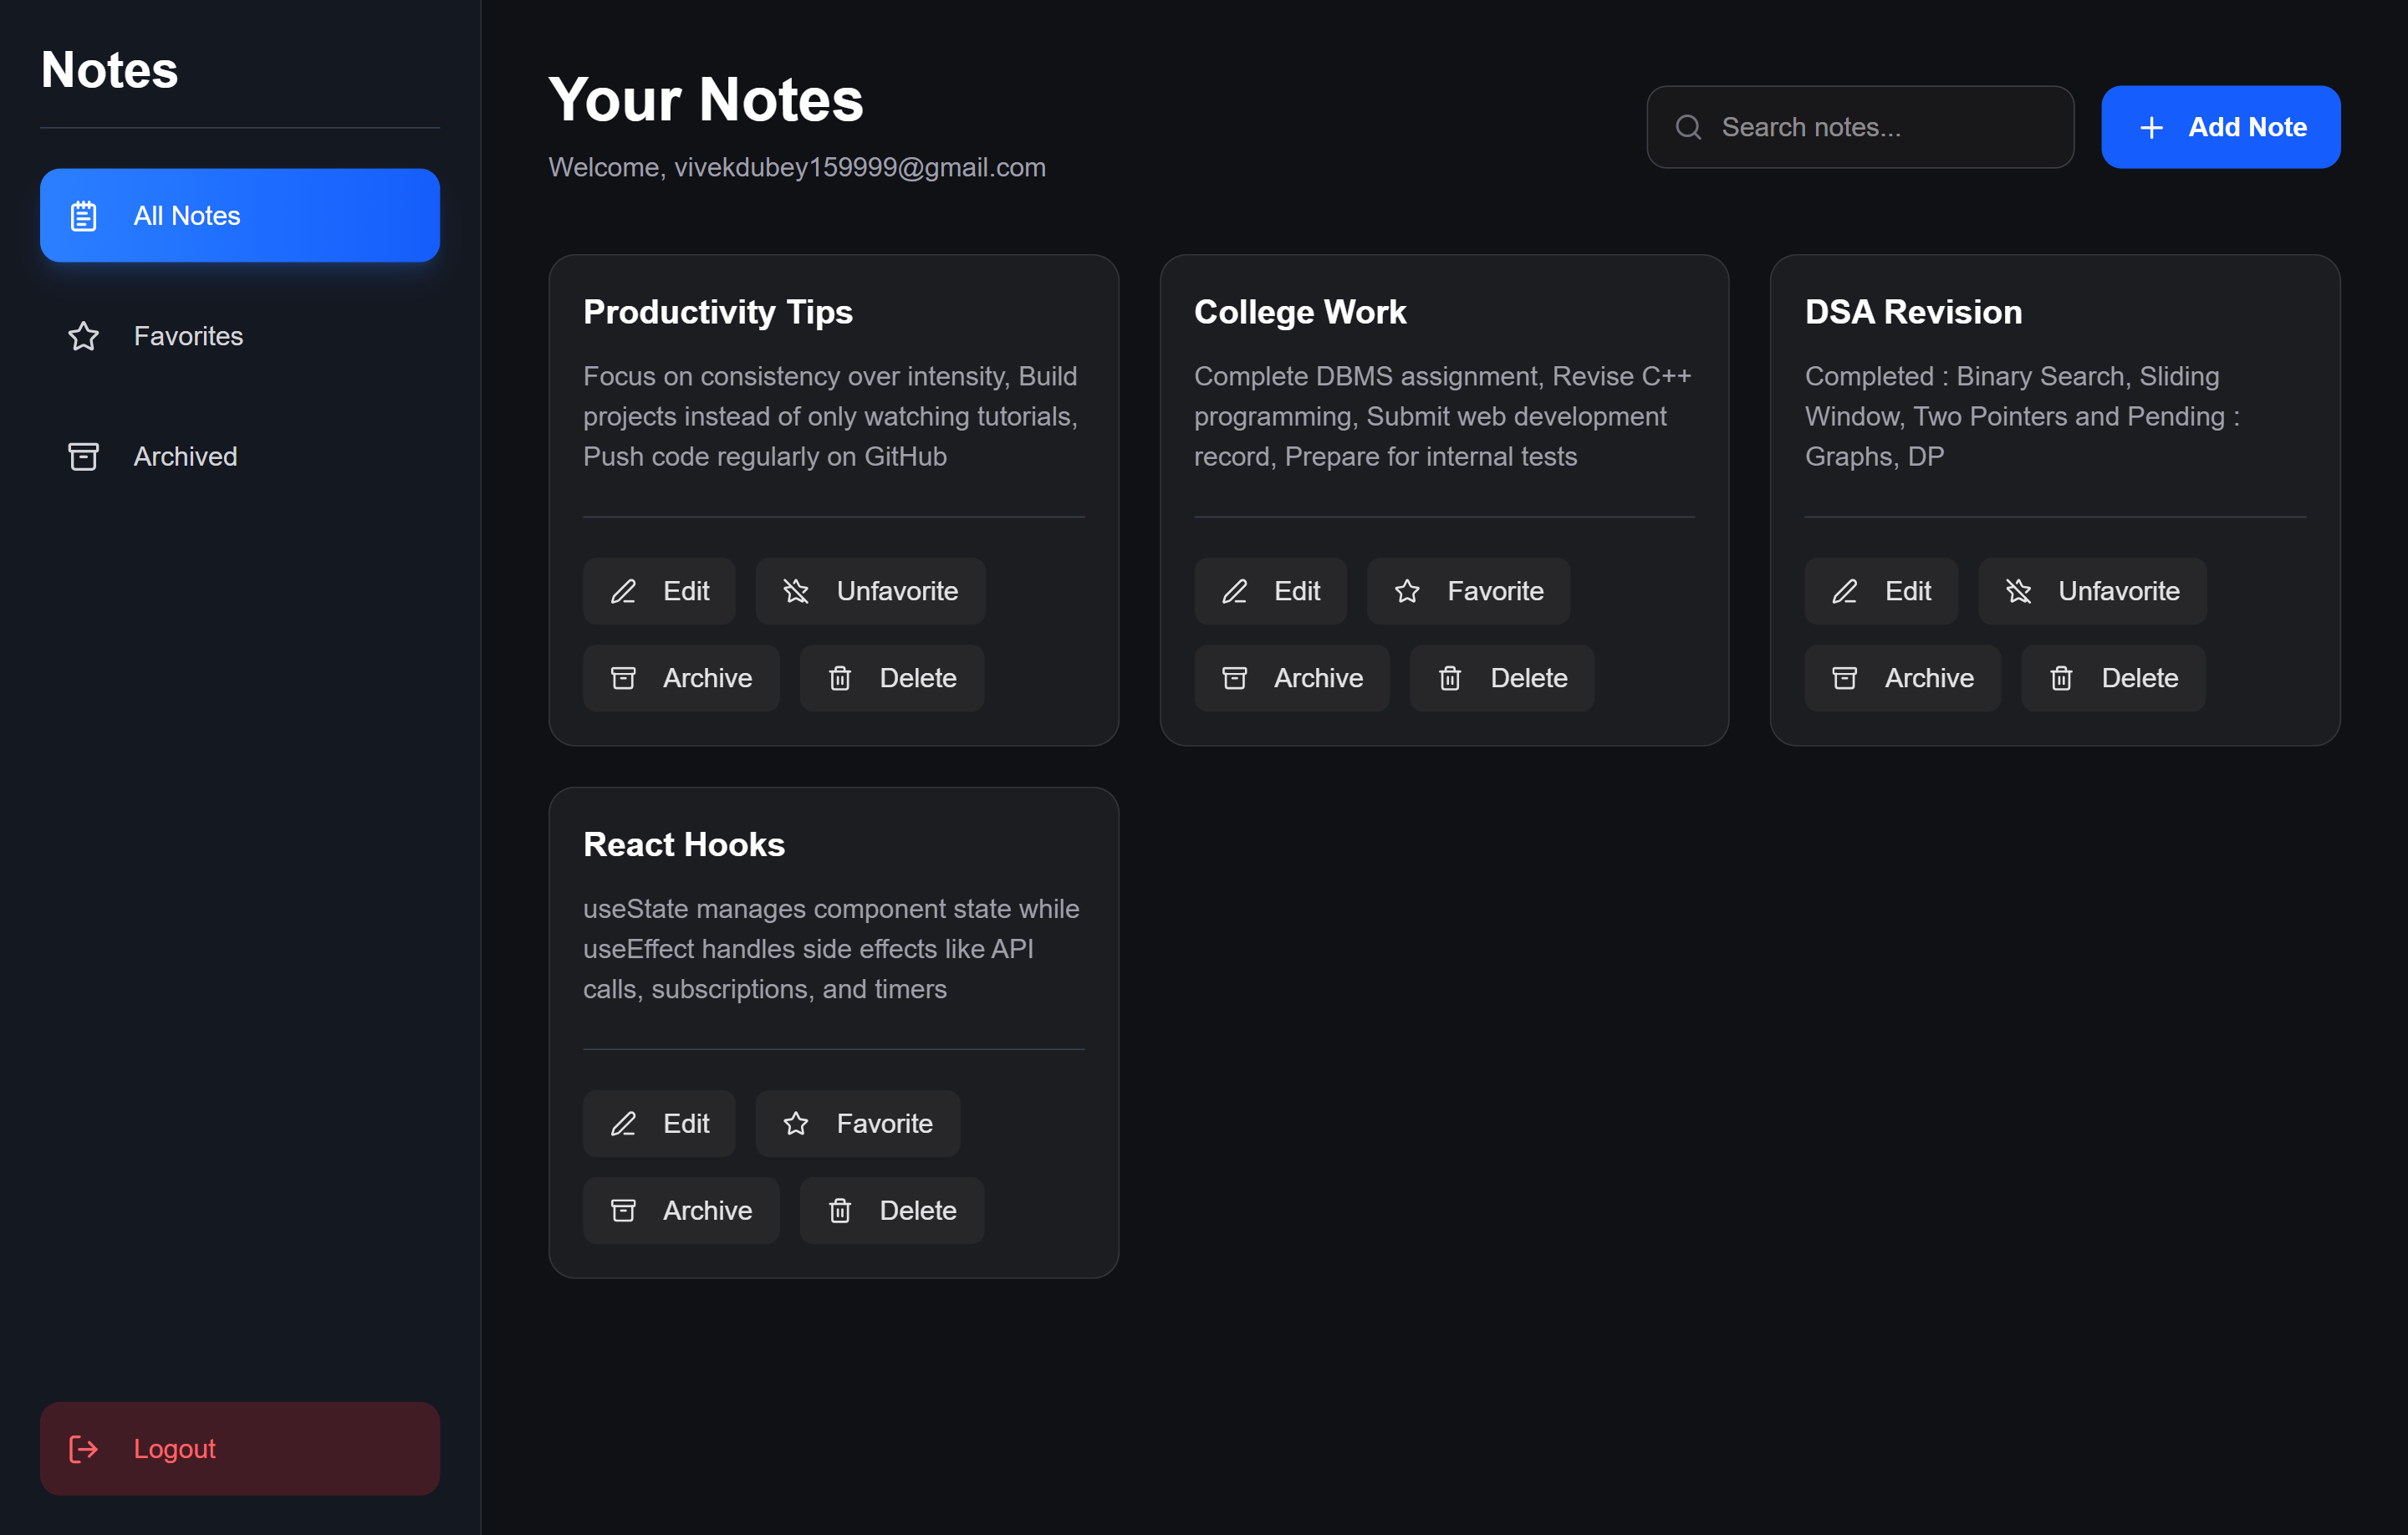
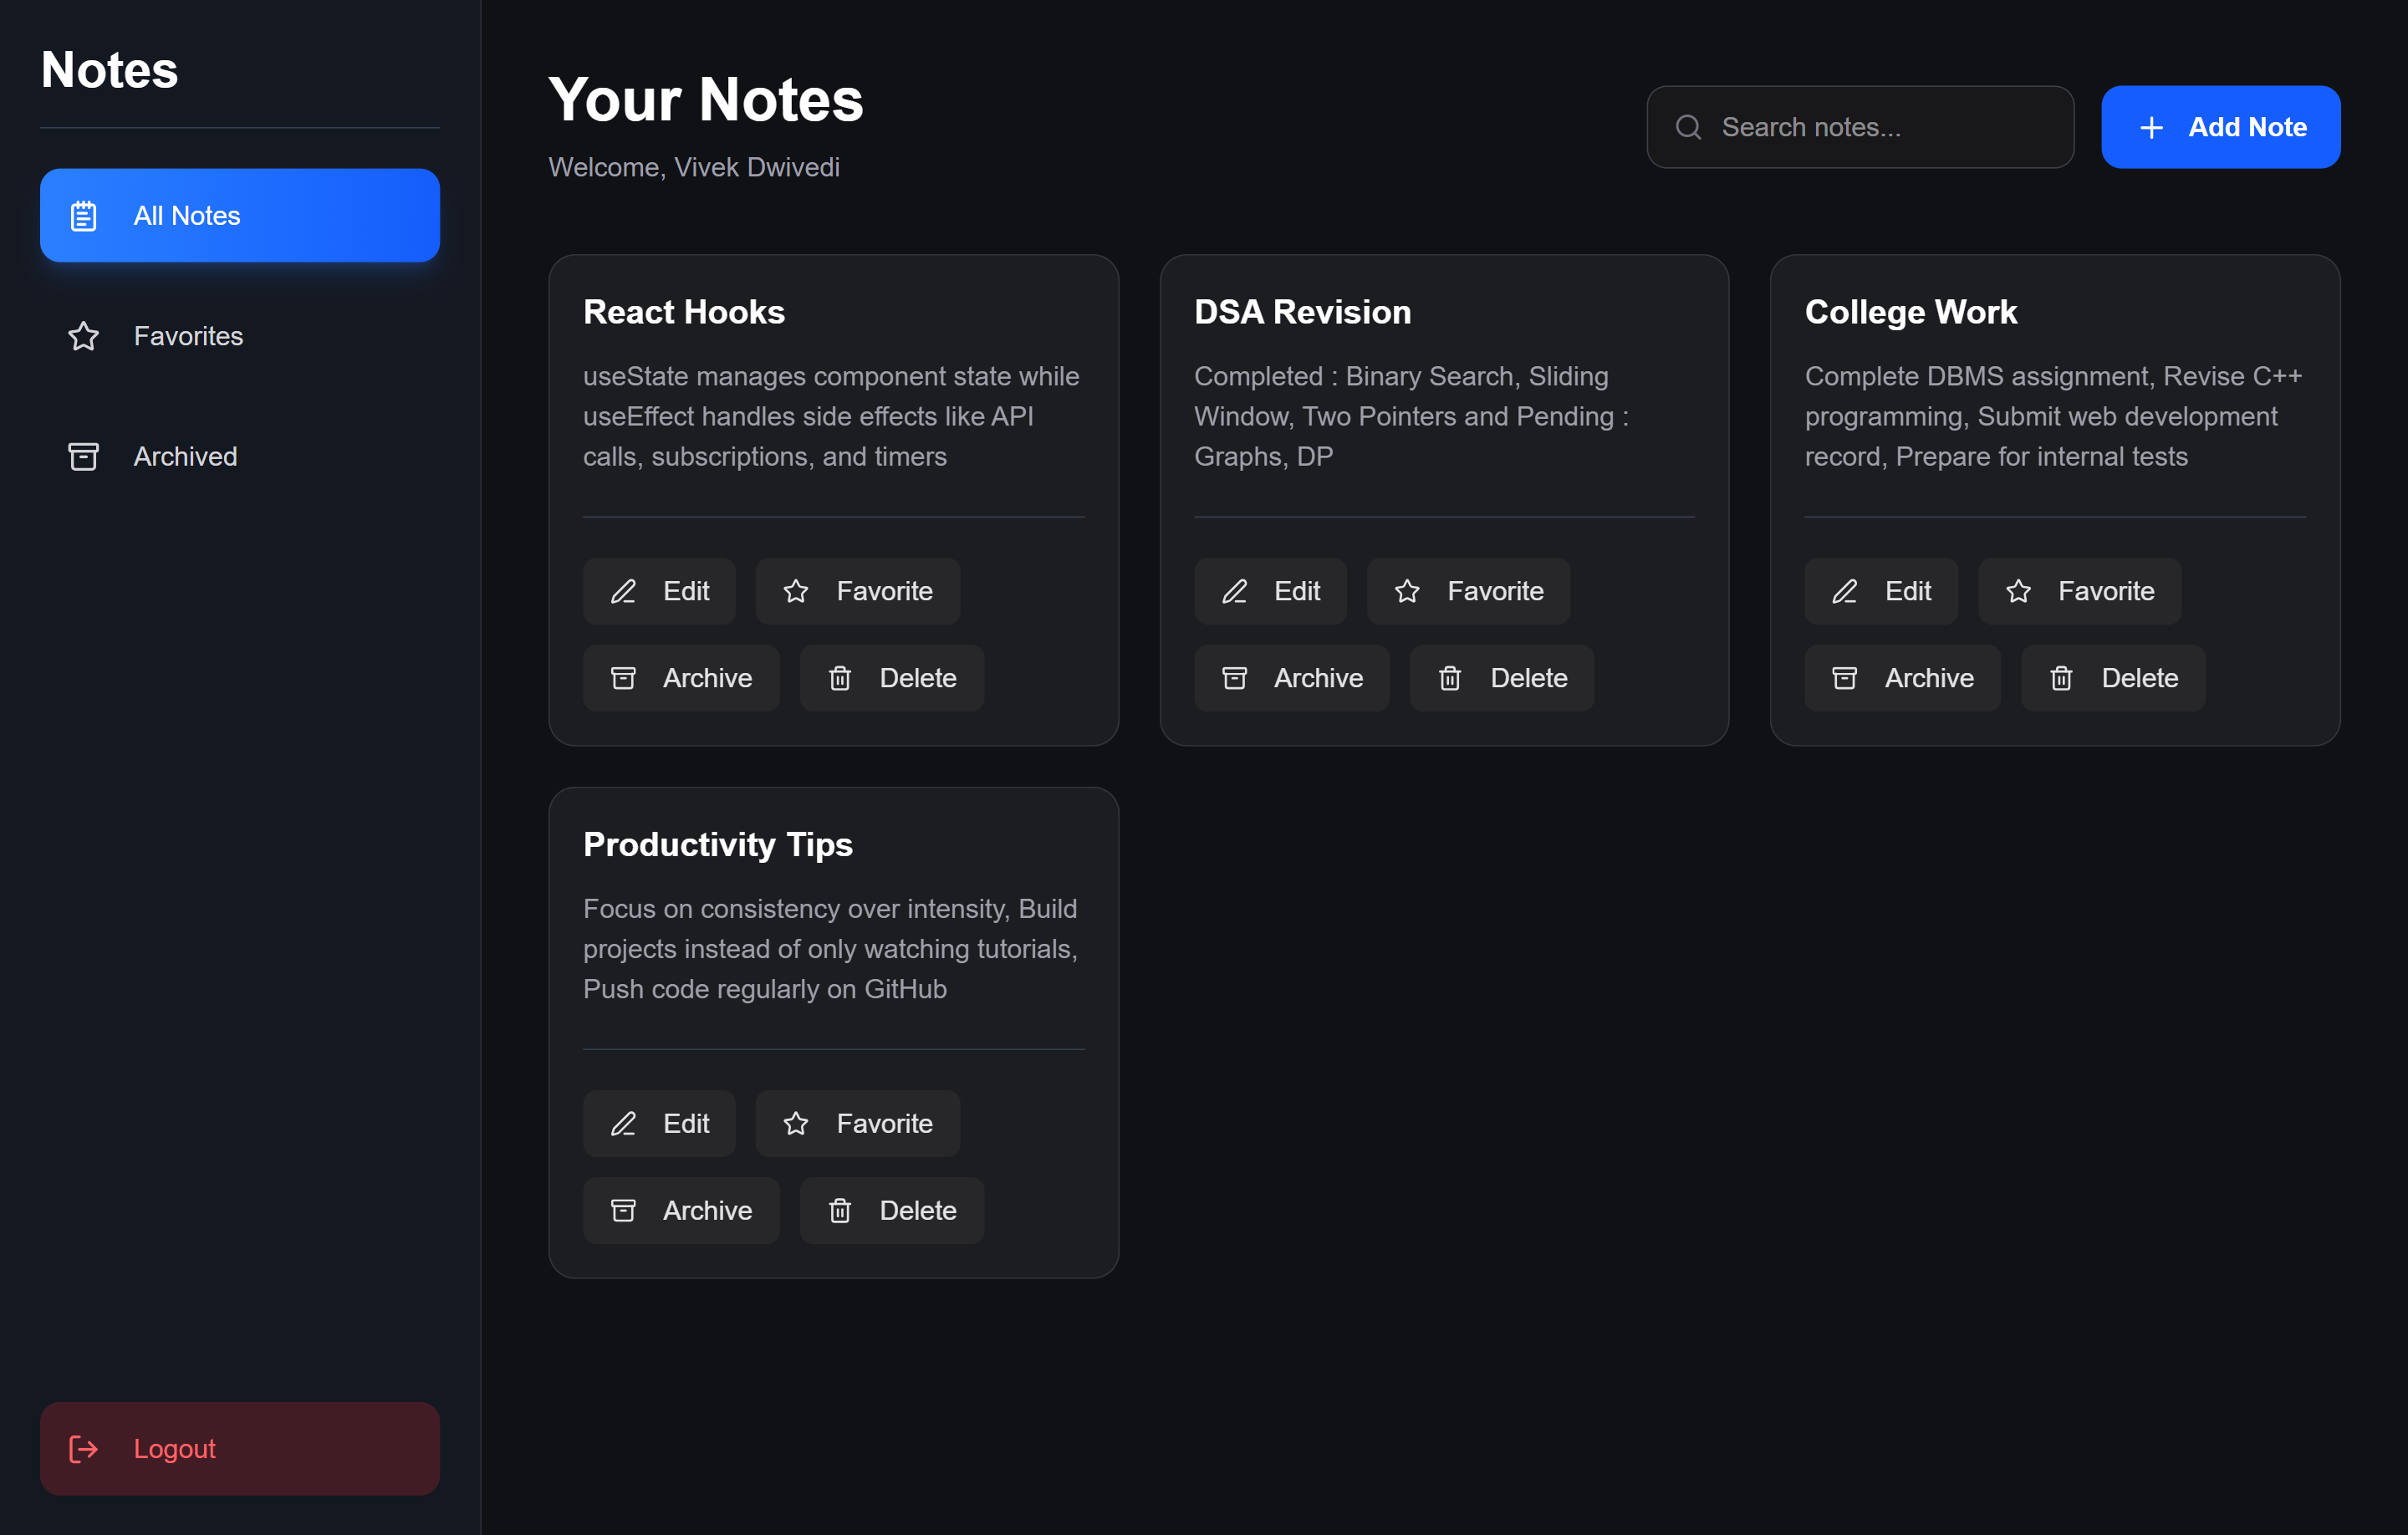
Improved authentication

diff --git a/notes-organizer/src/pages/Auth.jsx b/notes-organizer/src/pages/Auth.jsx
@@ -1,21 +1,26 @@
-import {useState} from 'react'
-import {useNavigate} from 'react-router-dom'
-import {motion} from 'framer-motion'
-import {getUsers, saveUsers, setCurrentUser} from '../utils/storage'
+import { useState } from 'react'
+import { useNavigate } from 'react-router-dom'
+import { motion } from 'framer-motion'
+import { getUsers, saveUsers, setCurrentUser } from '../utils/storage'
 
 export default function Auth() {
     const navigate = useNavigate()
     const [isLogin, setIsLogin] = useState(true)
+    const [name, setName] = useState('')
     const [email, setEmail] = useState('')
     const [password, setPassword] = useState('')
 
     const handleSubmit = () => {
+        if (!email.trim() || !password.trim() || (!isLogin && !name.trim())) {
+            alert("Please fill all fields!")
+            return
+        }
         const users = getUsers()
 
         if (isLogin) {
             const user = users.find(u => u.email === email && u.password === password)
             if (!user) {
-                alert('Invalid credentials')
+                alert('Invalid credentials!')
                 return
             }
             setCurrentUser(user)
@@ -24,10 +29,11 @@ export default function Auth() {
         else {
             const exists = users.find(u => u.email === email)
             if (exists) {
-                alert('User already exists')
+                alert('User already exists!')
                 return
             }
             const newUser = {
+                name,
                 email,
                 password,
             }
@@ -35,6 +41,13 @@ export default function Auth() {
             setCurrentUser(newUser)
             navigate('/dashboard')
         }
+    }
+
+    const toggleMode = () => {
+        setIsLogin(prev => !prev)
+        setName("")
+        setEmail("")
+        setPassword("")
     }
     return (
         <div className='min-h-screen bg-linear-to-br from-zinc-500 via-zinc-200 to-zinc-50 flex items-center justify-center px-6'>
@@ -58,11 +71,20 @@ export default function Auth() {
                     <h2 className='text-4xl font-bold mb-2 text-gray-900'>
                         {isLogin ? 'Welcome Back' : 'Create Account'}
                     </h2>
-                     <p className='text-gray-500 mb-10'>
+                    <p className='text-gray-500 mb-10'>
                         {isLogin
                             ? 'Sign in to continue'
                             : 'Register to start organizing'}
                     </p>
+                    {!isLogin && (
+                        <input
+                            type="text"
+                            placeholder="Enter Your Name"
+                            value={name}
+                            onChange={e => setName(e.target.value)}
+                            className="bg-gray-100 border border-gray-300 rounded-xl p-4 mb-4 text-gray-900 placeholder-gray-500 outline-none transition focus:border-black"
+                        />
+                    )}
                     <input
                         type='email'
                         placeholder='Email'
@@ -85,7 +107,7 @@ export default function Auth() {
                     </button>
                     <p className='text-gray-600 mt-6'>
                         {isLogin ? 'New here?' : 'Already have an account?'}
-                        <button onClick={() => setIsLogin(!isLogin)} className='ml-2 text-gray-600 font-semibold cursor-pointer hover:text-black active:scale-95 transition duration-150 inline-block'>
+                        <button onClick={toggleMode} className='ml-2 text-gray-600 font-semibold cursor-pointer hover:text-black active:scale-95 transition duration-150 inline-block'>
                             {isLogin ? 'REGISTER' : 'SIGN IN'}
                         </button>
                     </p>

diff --git a/notes-organizer/src/pages/Dashboard.jsx b/notes-organizer/src/pages/Dashboard.jsx
@@ -86,7 +86,7 @@ export default function Dashboard() {
                     <div>
                         <h1 className='text-4xl font-bold'>Your Notes</h1>
                         <p className='text-zinc-400 mt-2'>
-                            Welcome, {currentUser.email}
+                            Welcome, {currentUser.name}
                         </p>
                     </div>
 